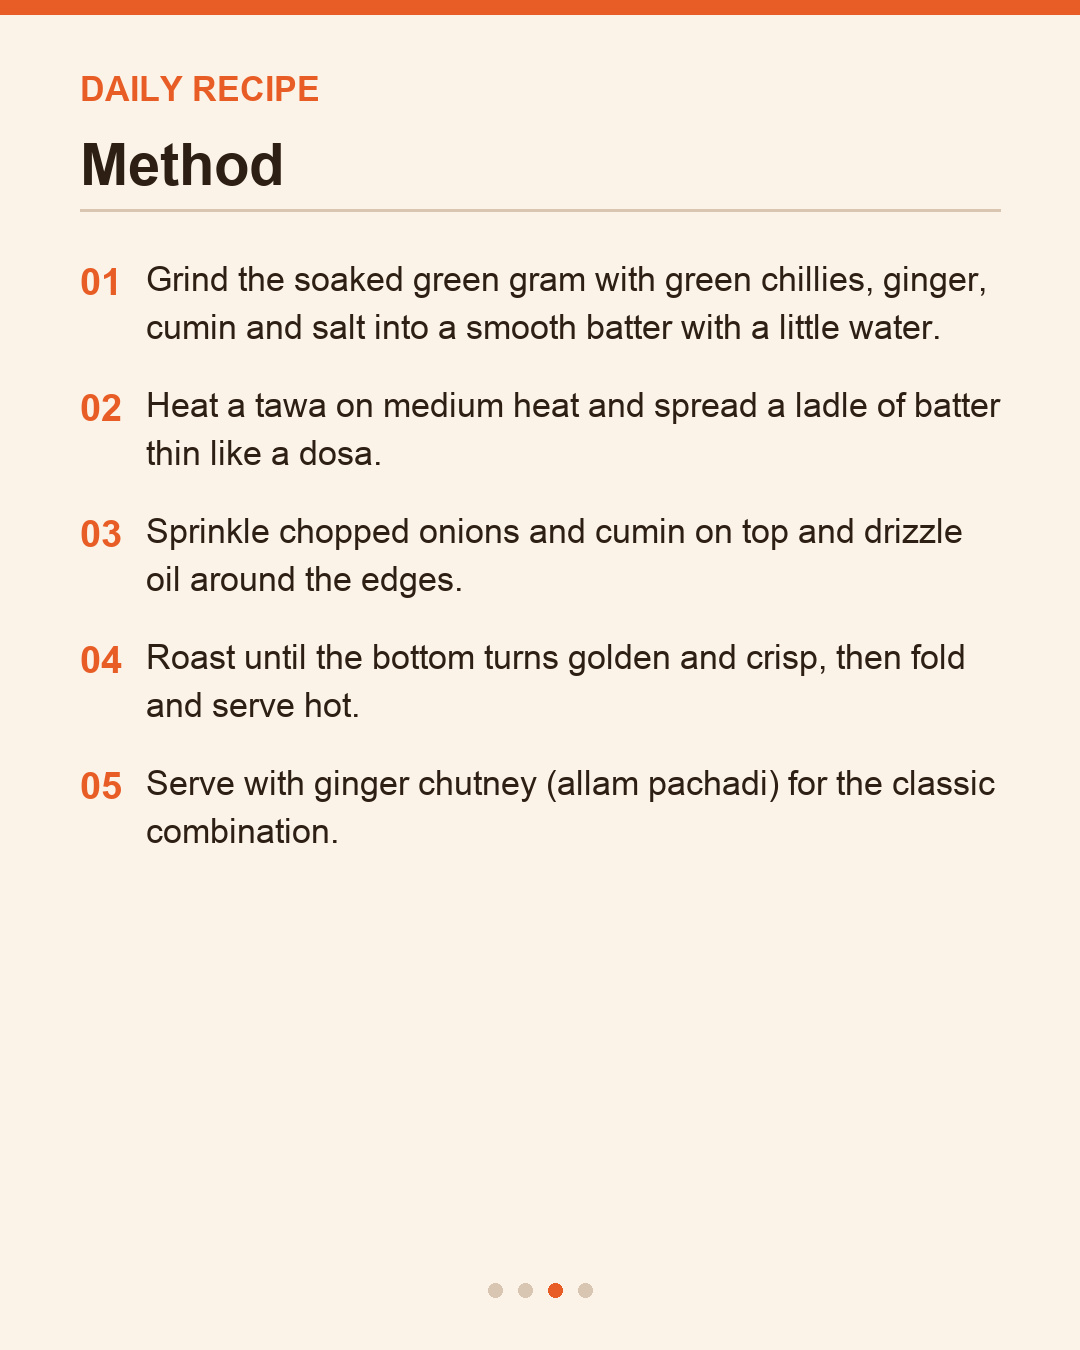
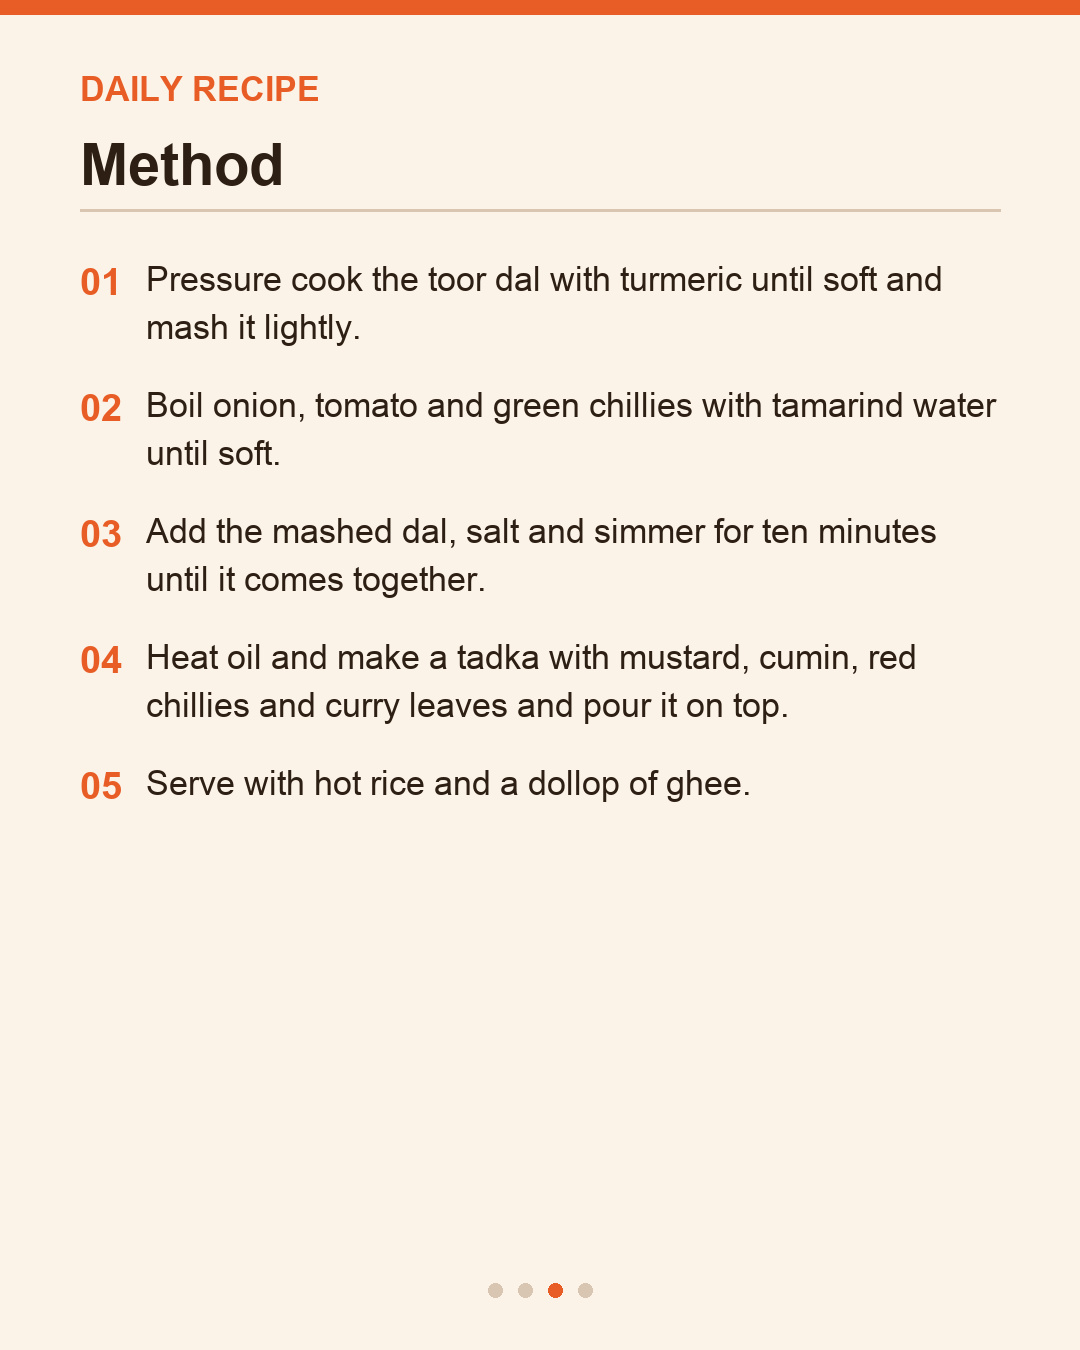
Retry silent on Seedance audio-filter rejection; tighten VO script

diff --git a/src/ai_reel.py b/src/ai_reel.py
@@ -149,23 +149,36 @@ def build_generation_prompts(recipe: dict, n_gens: int) -> list[str]:
     return prompts
 
 
+def _task_input(prompt: str, ref_image: str | None, with_audio: bool) -> dict:
+    task_input = {
+        "prompt": prompt,
+        "duration": GEN_SECONDS,
+        "resolution": RESOLUTION,
+        "aspect_ratio": "9:16",
+        "generate_audio": with_audio,
+    }
+    if ref_image:
+        task_input["reference_image_urls"] = [ref_image]
+    return task_input
+
+
 def generate_clips(prompts: list[str], ref_image: str | None, key: str, out_dir: Path) -> list[Path]:
-    task_ids = []
-    for p in prompts:
-        task_input = {
-            "prompt": p,
-            "duration": GEN_SECONDS,
-            "resolution": RESOLUTION,
-            "aspect_ratio": "9:16",
-            "generate_audio": True,
-        }
-        if ref_image:
-            task_input["reference_image_urls"] = [ref_image]
-        task_ids.append(create_task(KIE_MODEL, task_input, key))
+    task_ids = [
+        create_task(KIE_MODEL, _task_input(p, ref_image, True), key) for p in prompts
+    ]
     print(f"  {len(task_ids)} Seedance generations created, waiting...", flush=True)
     paths = []
     for i, task_id in enumerate(task_ids):
-        url = poll_task(task_id, key, exts="mp4")
+        try:
+            url = poll_task(task_id, key, exts="mp4")
+        except RuntimeError as exc:
+            # Seedance's audio safety filter false-positives on ambient
+            # sound resembling speech — retry the generation silent
+            if "audio" not in str(exc).lower():
+                raise
+            print(f"  generation {i + 1} hit the audio filter; retrying without audio", flush=True)
+            retry_id = create_task(KIE_MODEL, _task_input(prompts[i], ref_image, False), key)
+            url = poll_task(retry_id, key, exts="mp4")
         path = out_dir / f"gen{i:02d}.mp4"
         download(url, path)
         print(f"  generation {i + 1}/{len(task_ids)} done", flush=True)

diff --git a/src/voiceover.py b/src/voiceover.py
@@ -98,14 +98,14 @@ def build_script(recipe: dict, handle: str) -> str:
     # Sentence order mirrors the video beats: hook -> ingredients ->
     # first step -> cooking -> serve line over the final reveal -> follow CTA
     lines = [
-        f"This {name} needs just {n_ing} ingredients, that's it!",
-        "Everything you need is right here on the screen.",
+        f"This {name} needs just {n_ing} ingredients!",
+        "What you need is on the screen.",
         f"First, {frags[0]}.",
     ]
     if len(frags) == 3:
         lines.append(f"Then, {frags[1]}.")
     lines.append(f"And finally, {frags[-1]}.")
-    lines.append("Full recipe is in the caption. Follow us for a new tasty recipe every single day!")
+    lines.append("Full recipe in the caption. Follow for a new recipe every day!")
     return " ".join(lines)
 
 